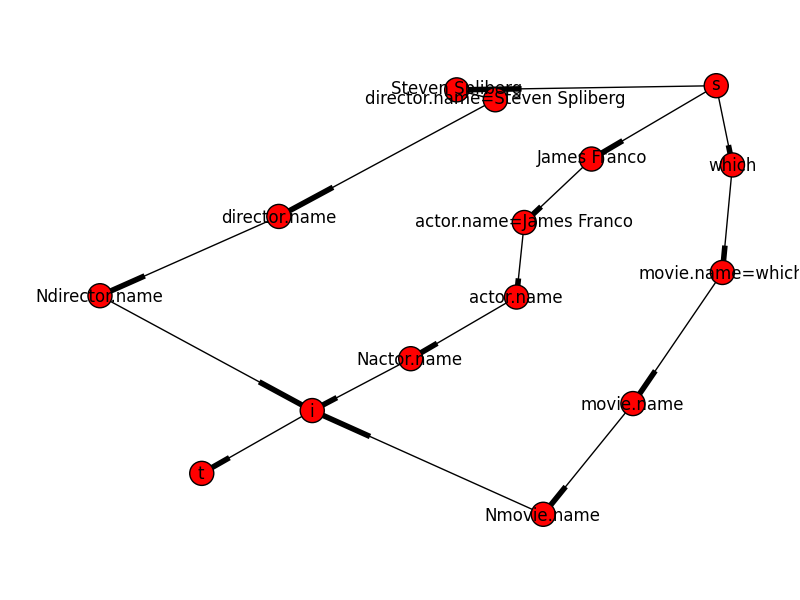
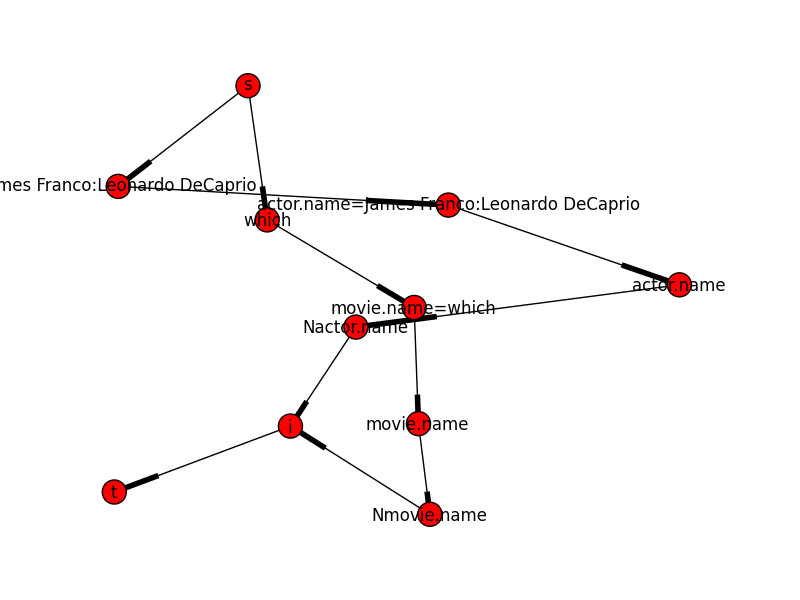
final

diff --git a/code/tokens.py b/code/tokens.py
@@ -261,12 +261,35 @@ def finalize(movie, person, year, rest):
             final_max_flow_list.append({'token':yr,'dbelement':yr,'use':'movie.year','explicit':isExplicit('movie.year',rest,'yr'),'attribute':'movie.year'})
     ##TAKING CARE OF PERSONS
     if person!=None:
+        actorNames=''
+        directorNames=''
         for head in person:
             rel = act_direct(head)
-            final_max_flow_list.append({'token':head,'dbelement':head,'use':rel+'.name','explicit':isExplicit(rel+'.name',rest,rel[:2]),'attribute':rel+'.name'})
+            if rel=='actor':
+                if actorNames == '':
+                    actorNames += head
+                else:
+                    actorNames += ':'+head
+            if rel=='director':
+                if directorNames == '':
+                    directorNames += head
+                else:
+                    directorNames += ':'+head
+        print 'actors : ',actorNames
+        print 'directors : ',directorNames
+                
+        if actorNames!='':
+            final_max_flow_list.append({'token':actorNames,'dbelement':actorNames,'use':'actor.name','explicit':isExplicit('actor.name',rest,'act'),'attribute':'actor.name'})
+        if directorNames!='':
+            final_max_flow_list.append({'token':directorNames,'dbelement':directorNames,'use':'director.name','explicit':isExplicit('director.name',rest,'direct'),'attribute':'director.name'})
+
+##        for head in person:
+##            rel = act_direct(head)
+##            final_max_flow_list.append({'token':head,'dbelement':head,'use':rel+'.name','explicit':isExplicit(rel+'.name',rest,rel[:3]),'attribute':rel+'.name'})
     print "\n Max Flow Input"
     print final_max_flow_list
     print "\n Query attribute value pair"
+    print "Maxflow"
     return attach(final_max_flow_list),rest
 
 #######################################################
@@ -422,20 +445,21 @@ def formQuery(attach_it,rest,aggregation):
     for elem in attach_it:
         # Hard coding... dangerous but karna padega for time being
         if ('director.name' in elem) or ('actor.name' in elem):
-            name = elem.split("=")[1]
-            spleet = name.split(" ")
-            if len(spleet)>1:
-                fname = spleet[0]
-                lname = spleet[-1]
-                if 'director' in elem:
-                    elem = " (director.first_name='%s' and director.last_name='%s') " % (fname,lname)
-                elif 'actor' in elem:
-                    elem = " (actor.first_name='%s' and actor.last_name='%s') " % (fname,lname)
-            else :
-                if 'director' in elem:
-                    elem = " (director.first_name='%s' or director.last_name='%s') " % (name,name)
-                elif 'actor' in elem:
-                    elem = " (actor.first_name='%s' or actor.last_name='%s') " % (name,name)
+            names = elem.split("=")[1]
+            for name in names.split(':'):
+                spleet = name.split(" ")
+                if len(spleet)>1:
+                    fname = spleet[0]
+                    lname = spleet[-1]
+                    if 'director' in elem:
+                        elem += " (director.first_name='%s' and director.last_name='%s') " % (fname,lname)
+                    elif 'actor' in elem:
+                        elem += " (actor.first_name='%s' and actor.last_name='%s') " % (fname,lname)
+                else :
+                    if 'director' in elem:
+                        elem += " (director.first_name='%s' or director.last_name='%s') " % (name,name)
+                    elif 'actor' in elem:
+                        elem += " (actor.first_name='%s' or actor.last_name='%s') " % (name,name)
                 
             
         if elem == attach_it[-1]:
@@ -501,7 +525,8 @@ def main():
 ##    query = 'who directed movies having James Franco ?'
 ##    query = 'Who directed the movie named "the titanic"?'
 ##    query = 'Who acted in the movies directed by James Franco ?'
-    query = 'Which movie had James Franco as actor and Steven Spliberg as director?'
+##    query = 'Which movie had James Franco as actor and Steven Spliberg as director?'
+    query = 'Which movies had actors James Franco and Leonardo DeCaprio?'
     a = convert(query)
     print a['query']
     

diff --git a/code/attach.py b/code/attach.py
@@ -80,6 +80,9 @@ def attach(tokenset):
         DGedges.append(("N"+elem,'e',1))
 ##DB-Attribute 2 to Implicit I
     implicit=list(set(attributes)-set(explicit))
+    print len(attributes)
+    print len(explicit)
+    print implicit
     for elem in implicit:
         g.add_edge("N"+elem,'i',1)
         DGedges.append(("N"+elem,'i',1))
